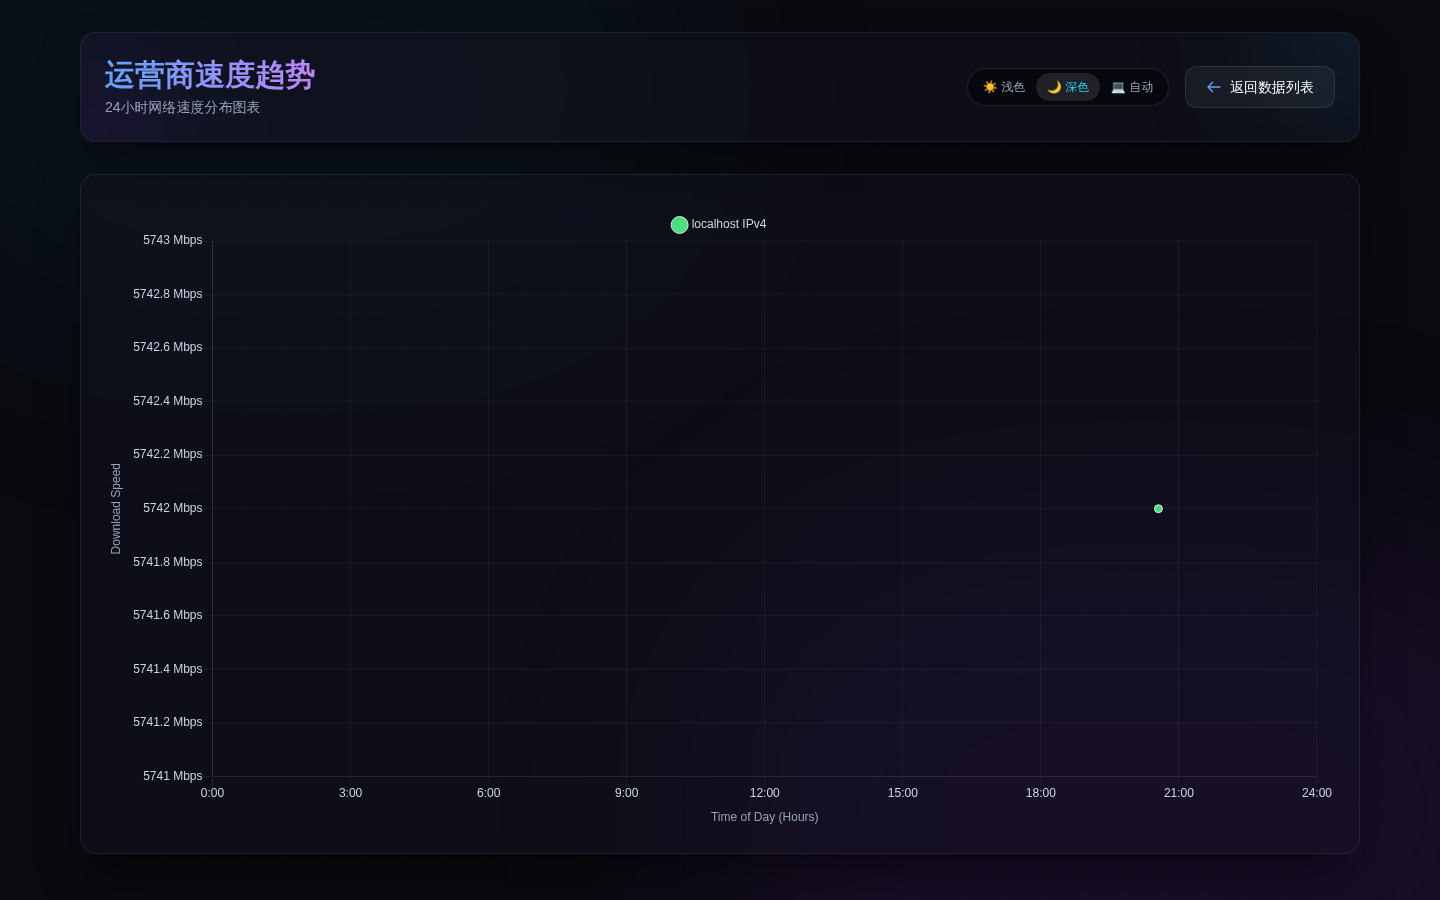
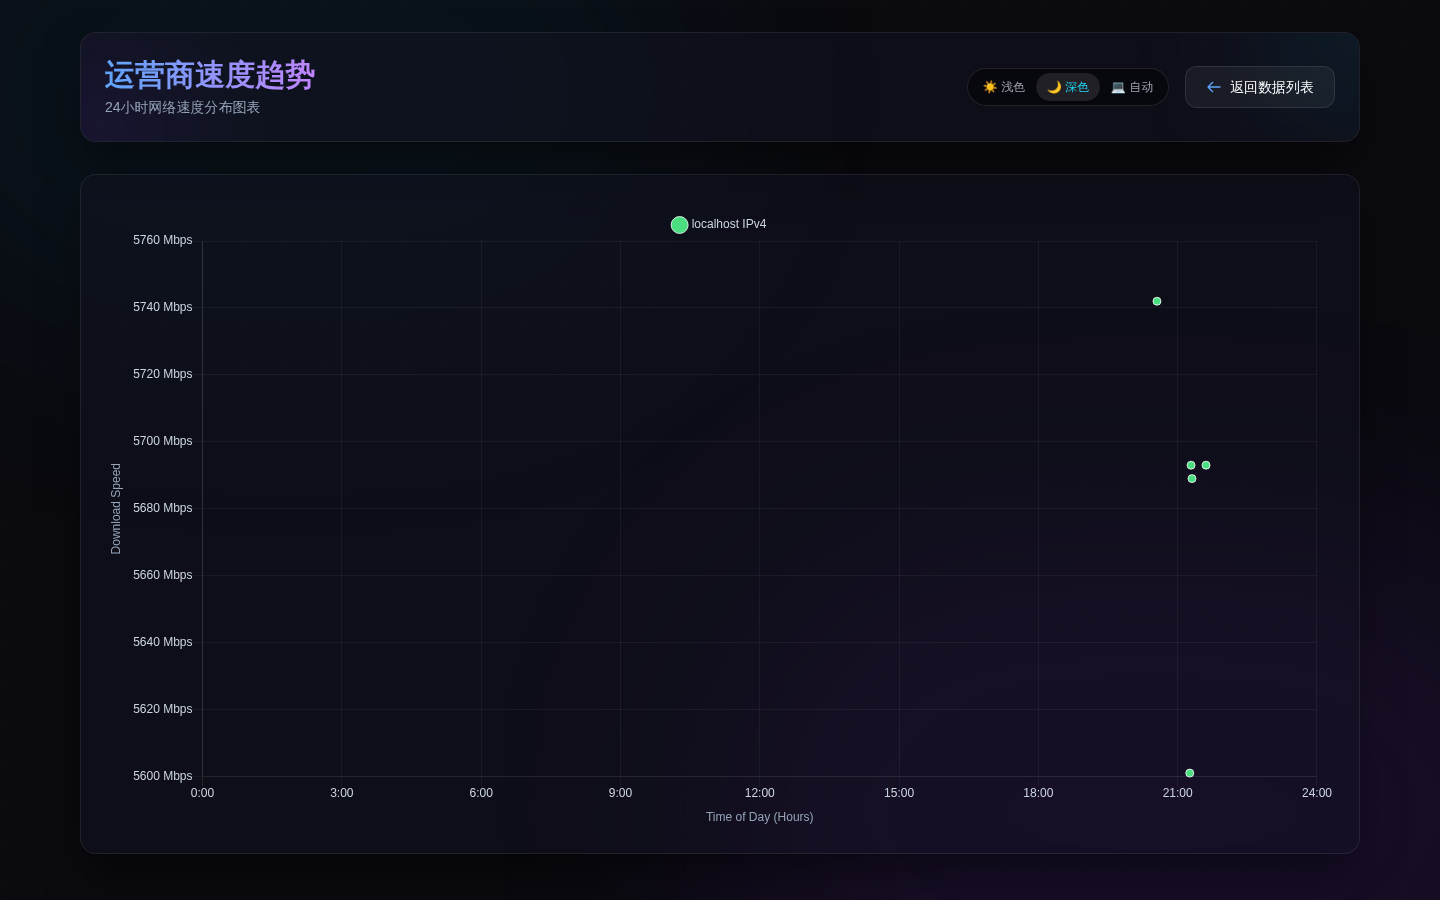
修复弹出框bug + 品牌替换为广东工业大学
- 修复二维码弹出框鼠标移入时向右偏移（transition-all→transition-opacity）
- 修复results.html提示按钮弹出框被卡片overflow:hidden裁切
- 品牌名：GDUTNIC 测速网站 → 广东工业大学测速网站（全量替换）
- 网站链接：speed(4/6).gdutnic.com → speed(4/6).gdut.edu.cn
- Logo：替换为广东工业大学学校Logo（本地logo.png）
- README截图更新（暗色模式，含新品牌名和Logo）

diff --git a/index.html b/index.html
@@ -3,9 +3,9 @@
 <head>
     <meta charset="UTF-8">
     <meta name="viewport" content="width=device-width, initial-scale=1.0, maximum-scale=1.0, user-scalable=no">
-    <title>GDUTNIC 测速网站</title>
+    <title>广东工业大学测速网站</title>
     <meta name="description" content="Speed Test site.">
-    <link rel="icon" href="logo-150x150.png" sizes="32x32" />
+    <link rel="icon" href="logo.png" sizes="32x32" />
     <link rel="icon" href="logo.png" sizes="192x192" />
     <link rel="apple-touch-icon-precomposed" href="logo.png" />
     <meta name="msapplication-TileImage" content="logo.png" />
@@ -198,7 +198,7 @@
             <div class="flex items-center gap-3">
                 <img src="logo.png" alt="Logo" class="h-8 w-8 sm:h-10 sm:w-10 object-contain rounded-xl shadow-sm" onerror="this.outerHTML='<svg class=\'h-8 w-8 sm:h-10 sm:w-10 text-cyan-500\' fill=\'currentColor\' viewBox=\'0 0 24 24\'><path d=\'M12 2L2 7l10 5 10-5-10-5zM2 17l10 5 10-5M2 12l10 5 10-5\'/></svg>'">
                 <h1 class="text-2xl sm:text-3xl font-bold tracking-wide bg-clip-text text-transparent bg-gradient-to-r from-cyan-500 to-purple-500 dark:from-cyan-400 dark:to-purple-400 drop-shadow-sm">
-                    GDUTNIC 测速网站
+                    广东工业大学测速网站
                 </h1>
             </div>
             <div class="flex flex-col sm:flex-row items-center gap-4">
@@ -211,8 +211,8 @@
                 </div>
                 
                 <div class="flex gap-2 bg-black/5 dark:bg-black/40 p-1.5 rounded-full border border-black/5 dark:border-white/10 shadow-inner">
-                    <a href="https://speed4.gdutnic.com" class="px-4 py-1 rounded-full text-sm font-medium text-slate-700 dark:text-white hover:bg-white/50 dark:hover:bg-white/10 transition-colors">IPv4</a>
-                    <a href="https://speed6.gdutnic.com" class="px-4 py-1 rounded-full text-sm font-medium text-slate-700 dark:text-white hover:bg-white/50 dark:hover:bg-white/10 transition-colors">IPv6</a>
+                <a href="https://speed4.gdut.edu.cn" class="px-4 py-1 rounded-full text-sm font-medium text-slate-700 dark:text-white hover:bg-white/50 dark:hover:bg-white/10 transition-colors">IPv4</a>
+                <a href="https://speed6.gdut.edu.cn" class="px-4 py-1 rounded-full text-sm font-medium text-slate-700 dark:text-white hover:bg-white/50 dark:hover:bg-white/10 transition-colors">IPv6</a>
                 </div>
             </div>
         </header>
@@ -300,7 +300,7 @@
                     <svg class="w-4 h-4" fill="none" stroke="currentColor" viewBox="0 0 24 24"><path stroke-linecap="round" stroke-linejoin="round" stroke-width="2" d="M11 5.882V19.24a1.76 1.76 0 01-3.417.592l-2.147-6.15M18 13a3 3 0 100-6M5.436 13.683A4.001 4.001 0 017 6h1.832c4.1 0 7.625-1.234 9.168-3v14c-1.543-1.766-5.067-3-9.168-3H7a3.988 3.988 0 01-1.564-.317z"></path></svg>
                     校园网报修
                 </a>
-                <div class="absolute bottom-full left-1/2 -translate-x-1/2 mb-4 w-72 p-4 rounded-2xl glass-panel text-center opacity-0 invisible group-hover:opacity-100 group-hover:visible transition-all duration-300 z-50">
+                <div class="absolute bottom-full left-1/2 -translate-x-1/2 mb-4 w-72 p-4 rounded-2xl glass-panel text-center opacity-0 invisible group-hover:opacity-100 group-hover:visible transition-opacity duration-300 z-50">
                     <img src="./gdutnic-qrcode.jpeg" alt="广东工业大学网络中心公众号二维码" class="w-48 h-48 mx-auto rounded-xl mb-3 object-contain">
                     <p class="text-xs text-slate-700 dark:text-slate-300 leading-relaxed">扫码关注<b>广东工业大学网络中心</b>公众号<br>点击「故障报修」→「我要报修」进行报修</p>
                 </div>

diff --git a/results.html b/results.html
@@ -2,7 +2,7 @@
 <html lang="zh-CN">
 <head>
     <meta charset="utf-8">
-    <title>测速结果 | GDUTNIC 测速网站</title>
+    <title>测速结果 | 广东工业大学测速网站</title>
     <meta name="viewport" content="width=device-width, initial-scale=1, maximum-scale=1">
     <script src="https://cdn.tailwindcss.com"></script>
     <script>
@@ -123,6 +123,10 @@
         .glass-panel > * {
             position: relative;
             z-index: 1;
+        }
+        /* Allow hover popups to escape parent stacking context */
+        .glass-panel > .group.relative {
+            z-index: 50;
         }
 
         .glass-header {
@@ -326,14 +330,14 @@
 
     <div class="relative z-10 max-w-7xl mx-auto animate-fade-in">
         <!-- Header Island -->
-        <div class="glass-panel rounded-2xl p-6 mb-8 flex flex-col md:flex-row justify-between items-center gap-4 relative overflow-hidden">
+        <div class="glass-panel rounded-2xl p-6 mb-8 flex flex-col md:flex-row justify-between items-center gap-4 relative overflow-visible">
             <!-- Decorative glow -->
             <div class="absolute -top-24 -right-24 w-48 h-48 blob-1 rounded-full mix-blend-multiply filter blur-3xl"></div>
             <div class="absolute -bottom-24 -left-24 w-48 h-48 blob-2 rounded-full mix-blend-multiply filter blur-3xl"></div>
             
             <div class="relative z-10">
                 <h1 class="text-2xl md:text-3xl font-bold bg-clip-text text-transparent bg-gradient-to-r from-blue-400 to-purple-400">
-                    GDUTNIC 测速结果
+                    广东工业大学测速结果
                 </h1>
                 <p class="text-slate-500 dark:text-slate-400 text-sm mt-1">网络速度监控仪表盘</p>
             </div>
@@ -356,7 +360,7 @@
                     <button class="w-10 h-10 rounded-xl bg-black/5 dark:bg-white/5 hover:bg-black/10 dark:hover:bg-white/10 border border-black/10 dark:border-white/10 flex items-center justify-center transition-all duration-300 text-slate-700 dark:text-slate-300">
                         <svg class="w-5 h-5" fill="none" stroke="currentColor" viewBox="0 0 24 24"><path stroke-linecap="round" stroke-linejoin="round" stroke-width="2" d="M13 16h-1v-4h-1m1-4h.01M21 12a9 9 0 11-18 0 9 9 0 0118 0z"></path></svg>
                     </button>
-                    <div class="absolute right-0 top-12 w-64 p-3 rounded-xl glass-panel text-xs text-slate-700 dark:text-slate-300 opacity-0 invisible group-hover:opacity-100 group-hover:visible transition-all duration-300 z-50">
+                    <div class="absolute right-0 top-12 w-64 p-3 rounded-xl glass-panel text-xs text-slate-700 dark:text-slate-300 opacity-0 invisible group-hover:opacity-100 group-hover:visible transition-opacity duration-300 z-50">
                         线性图表用于展示不同运营商在不同时段的速度表现，程序默认保留1000条测速结果，可调大此数值以获得更准确的图表分析。
                     </div>
                 </div>

diff --git a/chart.html b/chart.html
@@ -2,7 +2,7 @@
 <html lang="zh-CN">
 <head>
     <meta charset="utf-8">
-    <title>ISP Speed Chart | GDUTNIC 测速网站</title>
+    <title>运营商速度趋势 | 广东工业大学测速网站</title>
     <meta name="viewport" content="width=device-width, initial-scale=1, maximum-scale=1">
     <script src="https://cdn.tailwindcss.com"></script>
     <script>
